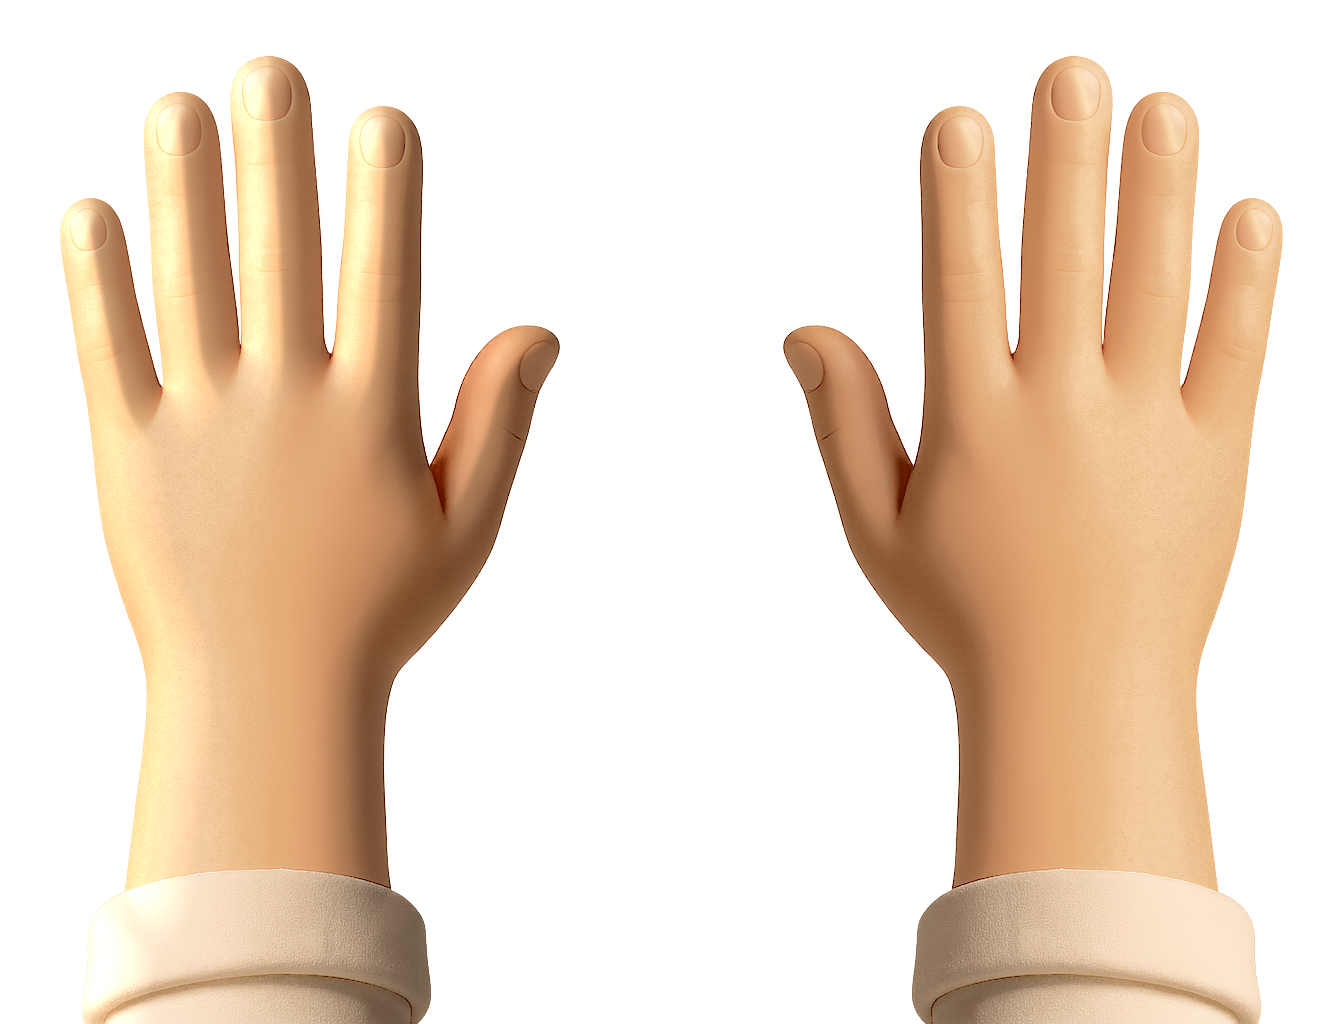
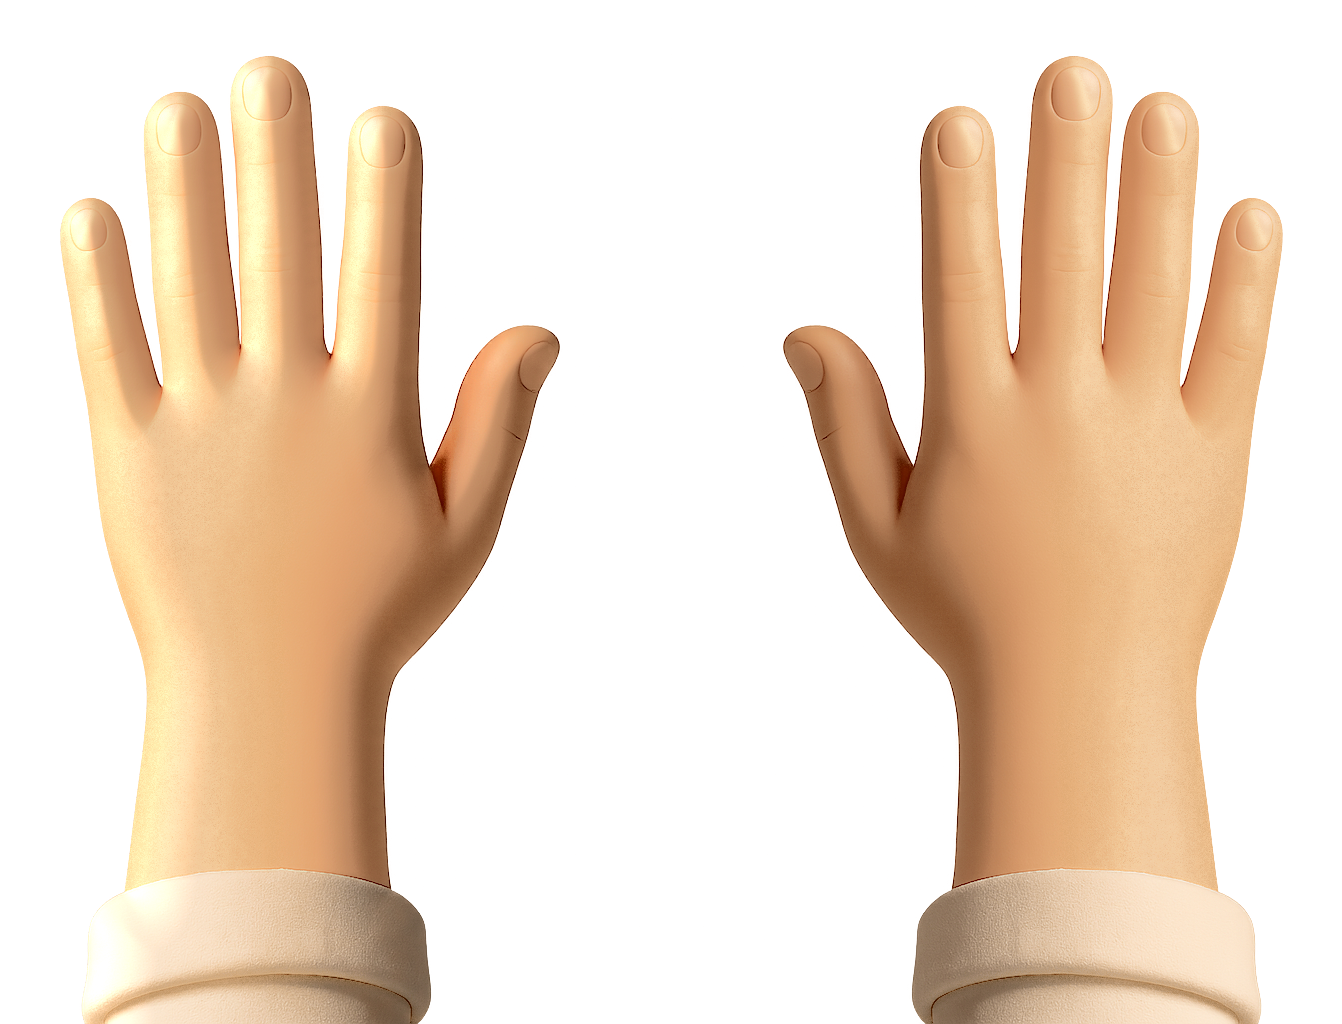
Hands v3: d3/d4-f1 rings pinned hidden, e4-f1 back view, e7 wrist re-set, d6-f1 left-hand tone matched
Claude-Session: https://claude.ai/code/session_015ho7YCkDF3zNcXC2bhmRkB

diff --git a/build/hand_ring_pins.py b/build/hand_ring_pins.py
@@ -15,7 +15,7 @@ PINS = {
     "hand-a3-palm-up-e": [{"view": "palm", "note": "palm up, no nails: drawn as a left hand"}],
     "hand-a8-cupped-t": [{"view": "palm", "note": "cupped palm up"}],
     "hand-a8-cupped-e": [{"view": "palm", "note": "cupped palm up"}],
-    "hand-e7-shrug-e": [{"view": "palm", "note": "open palm up"}],
+    "hand-e7-shrug-e": [{"view": "palm", "bracelet": "anchor", "note": "open palm up; bracelet on the hand-set wrist (v3: the joint-based cut was too narrow)"}],
     # backs drawn as anatomical left hands: chirality reads 'palm', nails show
     "hand-a7-hand-on-heart-e": [{"view": "back", "note": "nails and knuckles show: back of the hand"}],
     "hand-e3-count-2-e": [{"view": "back", "note": "nails on the raised fingers, knuckles on the curled ones"}],
@@ -42,6 +42,11 @@ PINS = {
     "hand-c2-tripod-grip-t": [{"view": "hidden", "note": "pencil grip from above: ring finger curled under the palm"}],
     "hand-c3-side-pinch-t": [{"view": "hidden", "note": "card pinch from above: ring finger curled under the palm"}],
     # hands v3 masters
+    "hand-e4-clap-f1-apart-e": [{"view": "back", "note": "nails show on both hands: backs towards us (chirality read palm)"},
+                                {"view": "back", "note": "nails show on both hands: backs towards us (chirality read palm)"}],
+    "hand-d3-two-hand-bowl-t": [{"view": "hidden", "note": "hands on the bowl's sides, seen edge-on: ring fingers behind, curled over the rim (detection put the ring on the thumb)"},
+                                {"view": "hidden", "note": "hands on the bowl's sides, seen edge-on: ring fingers behind, curled over the rim (detection put the ring on the thumb)"}],
+    "hand-d4-squeeze-f1-half-t": [{"view": "hidden", "note": "half-closed round a ball: the ring finger's first segment is edge-on at the hand's outer edge"}],
     "hand-b3-stick-grip-e": [{"view": "hidden", "note": "fist round a stick, palm side: the ring finger curls into the palm (6 px edge-on)"}],
     "hand-d2-c-hold-t": [{"view": "hidden", "note": "C from above: the ring finger's first segment is edge-on at the far side (23 px)"}],
     "hand-c3-side-pinch-e": [{"view": "hidden", "note": "card held up, palm side: ring finger curled into the palm"}],

diff --git a/build/hand_masks.py b/build/hand_masks.py
@@ -22,7 +22,7 @@ MANUAL_WRISTS = {
     "hand-b2-vertical-grip-e": [{"x": 610, "y": 640, "angle_deg": -28, "wrist_px": 250}],  # v3 master (blue-tool re-render)
     "hand-d4-squeeze-f2-tight-t": [{"x": 506, "y": 720, "angle_deg": 0, "wrist_px": 250}],
     "hand-e5-arm-up-fist-e": [{"x": 506, "y": 720, "angle_deg": 0, "wrist_px": 250}],  # v2: a copy of d4-f2-tight
-    "hand-e7-shrug-e": [{"x": 606, "y": 941, "angle_deg": 38, "wrist_px": 240}],
+    "hand-e7-shrug-e": [{"x": 610, "y": 945, "angle_deg": 25, "wrist_px": 290}],  # v3: re-read on a grid (the arm is ~300 px across at the wrist crease)
     "hand-c5-two-hand-fold-t": [{"x": 1102, "y": 918, "angle_deg": -24, "wrist_px": 245}],
     "hand-e4-clap-f2-together-e": [{"x": 560, "y": 716, "angle_deg": -8, "wrist_px": 240}],
 }

diff --git a/build/hand_v3_keys.py b/build/hand_v3_keys.py
@@ -210,7 +210,13 @@ def main():
         im = Image.open(p).convert("RGBA")
         region = np.zeros((im.height, im.width), bool)
         region[:, : im.width // 2] = True
-        j3.relight_mirrored(im, region=region).save(p)
+        im = j3.relight_mirrored(im, region=region)
+        # match the relit half's skin back to the other hand's
+        W = im.width // 2
+        left, right = im.crop((0, 0, W, im.height)), im.crop((W, 0, im.width, im.height))
+        left, _ = ga.match_skin_distribution(left, ga.skin_stats(right))
+        im.paste(left, (0, 0))
+        im.save(p)
 
 
 if __name__ == "__main__":
